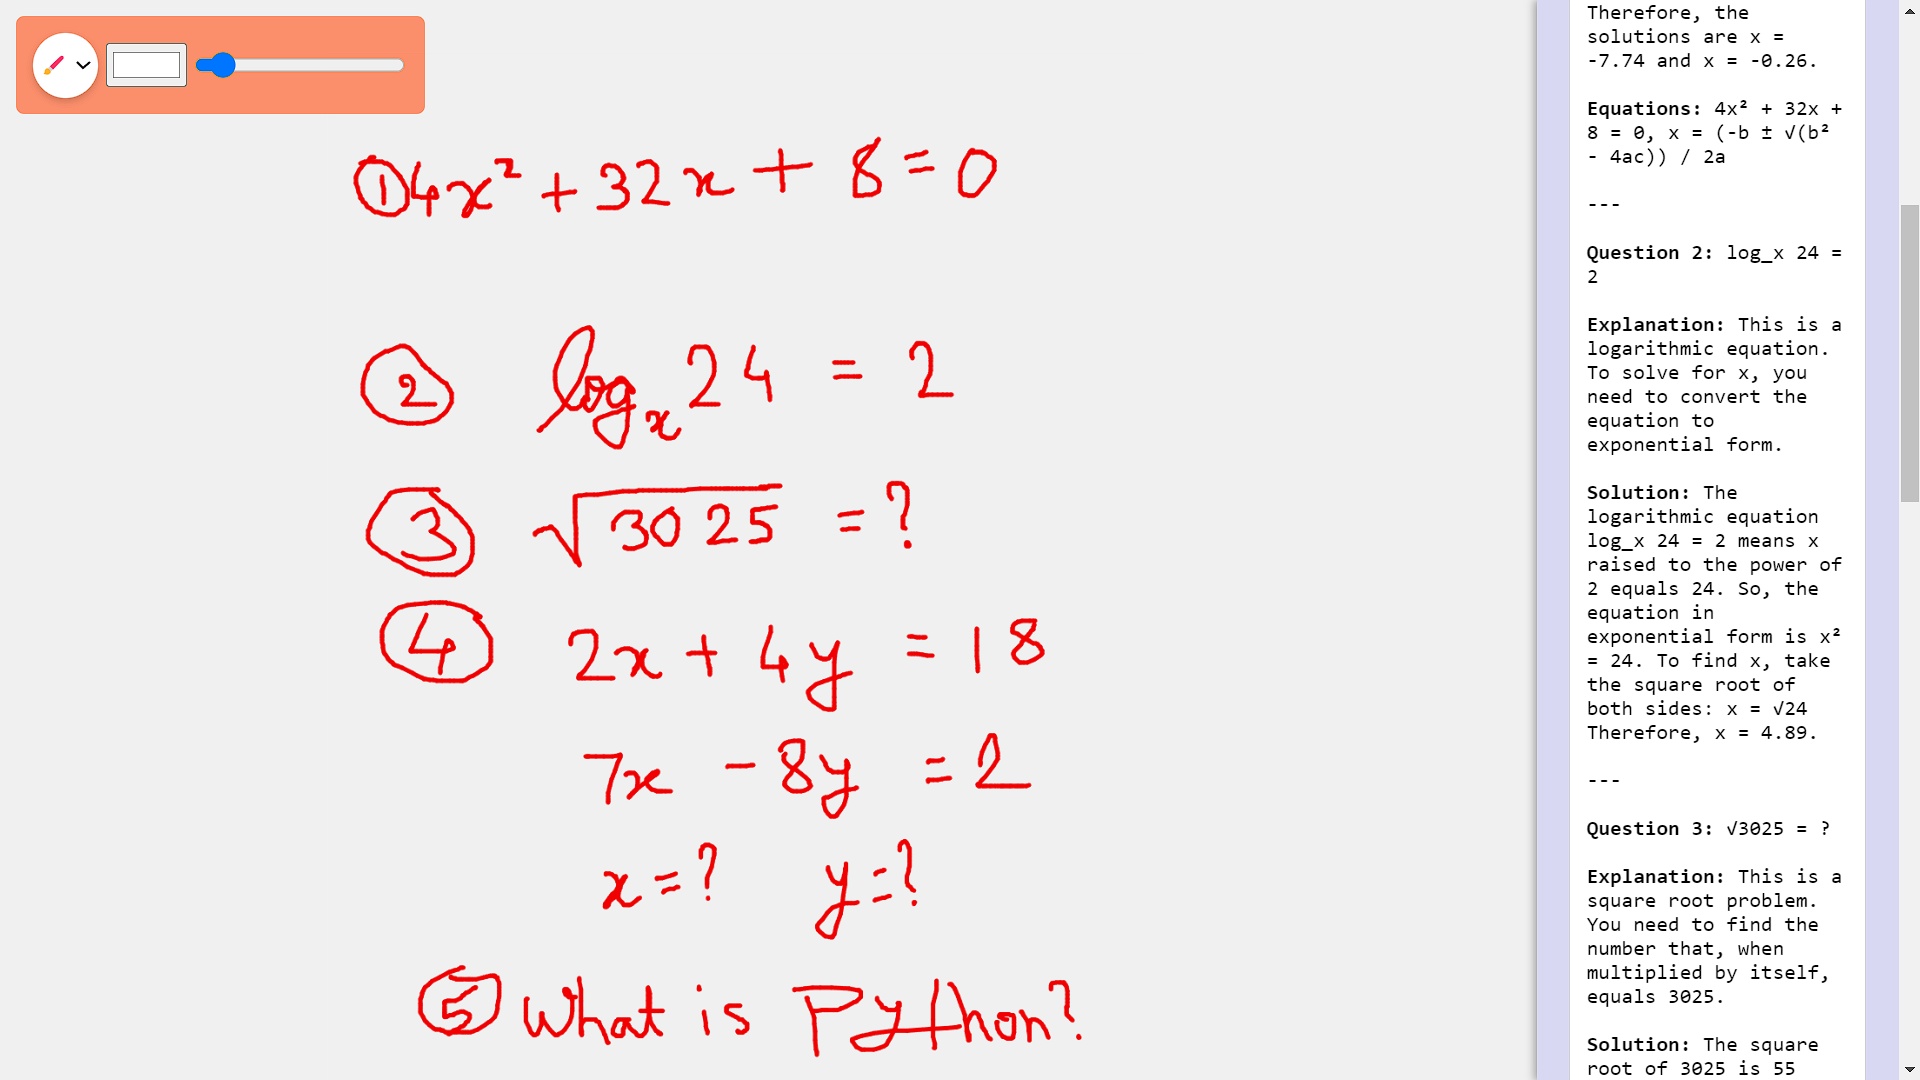
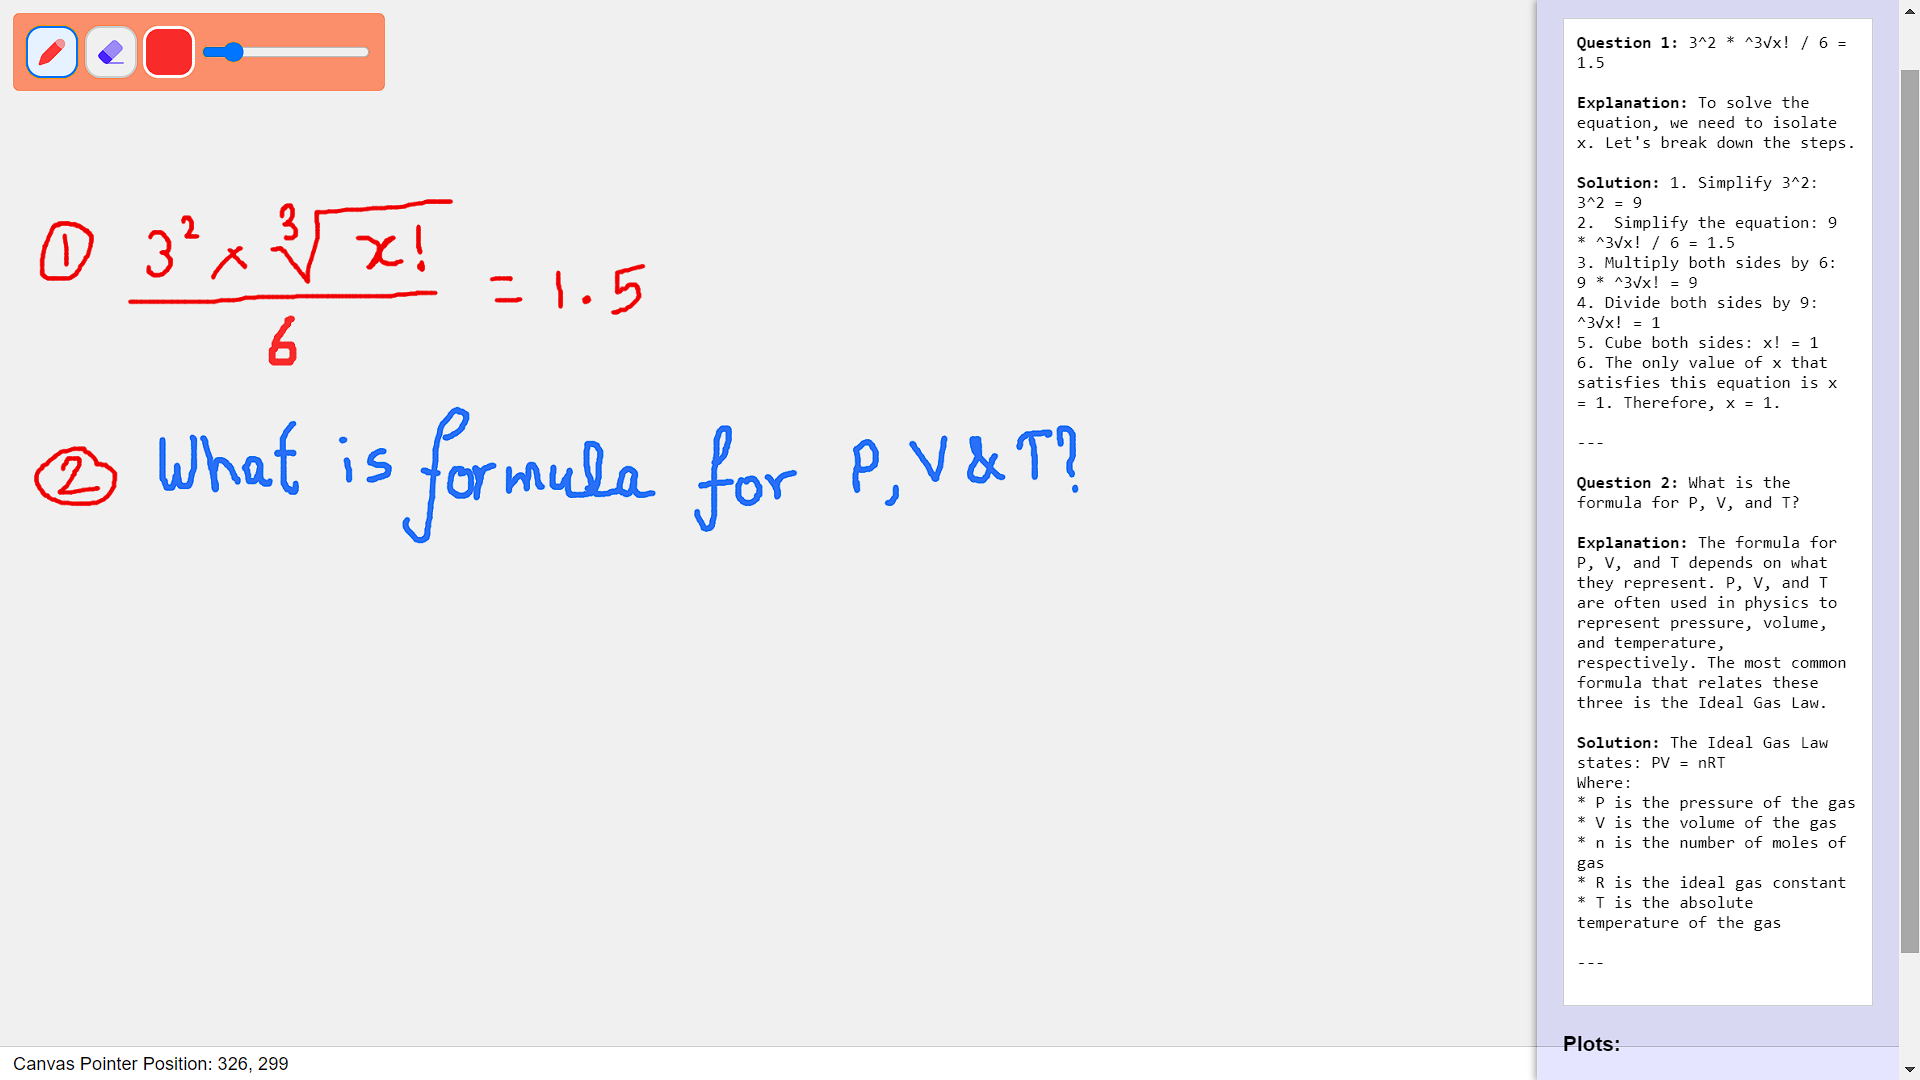
Changed UI

diff --git a/frontend/app.js b/frontend/app.js
@@ -1,4 +1,4 @@
-var width = window.innerWidth*0.8;
+var width = 1500;
 var height = 2000;
 
 var stage = new Konva.Stage({
@@ -18,6 +18,7 @@ var image = new Konva.Image({
     image: canvas,
     x: 0,
     y: 0,
+    shadowEnabled: 'true',
 });
 layer.add(image);
 
@@ -25,10 +26,6 @@ var context = canvas.getContext('2d');
 context.strokeStyle = '#f00000';  // Set default brush color
 context.lineJoin = 'round';
 context.lineWidth = 5;
-
-// Fill the canvas with the background color
-context.fillStyle = '#f0f0f0';
-context.fillRect(0, 0, canvas.width, canvas.height);
 
 var isPaint = false;
 var lastPointerPosition;
@@ -92,6 +89,9 @@ stage.on('mousedown touchstart', function (e) {
         var transform = stage.getAbsoluteTransform().copy();
         transform.invert();
         lastPointerPosition = transform.point(pos);
+
+        //=========== try Update the position display
+        updatePointerPosition(lastPointerPosition.x, lastPointerPosition.y);
     }
 });
 
@@ -99,6 +99,14 @@ stage.on('mouseup touchend', function () {
     isPaint = false;
     stage.draggable(false);  // Always disable dragging after mouse release
 });
+
+//=========== pointer position display
+// Add this function to update the position display
+function updatePointerPosition(x, y) {
+    var positionElement = document.getElementById('pointer-position');
+    positionElement.textContent = Math.round(x) + ', ' + Math.round(y);
+}
+//===========
 
 stage.on('mousemove touchmove', function (e) {
     if (!isPaint) {
@@ -129,26 +137,44 @@ stage.on('mousemove touchmove', function (e) {
     var localPos = transform.point(pos);
 
     context.beginPath();
-
     // Move to the last pointer position and draw a line to the current position
     context.moveTo(lastPointerPosition.x, lastPointerPosition.y);
     context.lineTo(localPos.x, localPos.y);
-
     context.closePath();
     context.stroke();
 
     // Update the last pointer position
     lastPointerPosition = localPos;
 
+    //=========== try Update the position display
+    updatePointerPosition(localPos.x, localPos.y);
+
     layer.batchDraw();
 });
 
+//=================== tools changed ================
+// Replace the toolSelect event listener with the following:
+var brushTool = document.getElementById('brush-tool');
+var eraserTool = document.getElementById('eraser-tool');
 
+function setActiveTool(activeTool) {
+    mode = activeTool;
+    brushTool.classList.toggle('active', activeTool === 'brush');
+    eraserTool.classList.toggle('active', activeTool === 'eraser');
+}
 
-var toolSelect = document.getElementById('tool');
-toolSelect.addEventListener('change', function () {
-    mode = toolSelect.value;
+brushTool.addEventListener('click', function() {
+    setActiveTool('brush');
 });
+
+eraserTool.addEventListener('click', function() {
+    setActiveTool('eraser');
+});
+
+// Initialize with brush as the active tool
+setActiveTool('brush');
+
+//====================================================
 
 var colorPicker = document.getElementById('color-picker');
 colorPicker.addEventListener('change', function () {
@@ -171,7 +197,18 @@ document.getElementById('generate-button').onclick = function() {
     plotOutputElement.innerHTML = '';
 
     // Get the canvas data as a base64-encoded string
-    var imageData = image.toDataURL('image/png');
+    var tempCanvas = document.createElement('canvas');
+    tempCanvas.width = stage.width();
+    tempCanvas.height = stage.height();
+    var tempContext = tempCanvas.getContext('2d');
+    // Fill the canvas with the background color
+    tempContext.fillStyle = '#f0f0f0';
+    tempContext.fillRect(0, 0, canvas.width, canvas.height);
+
+    // Draw the background
+    tempContext.drawImage(canvas, 0, 0);
+
+    var imageData = tempCanvas.toDataURL('image/png');
 
     // Send the image data to the backend
     fetch('http://localhost:5000/generate', {
@@ -221,6 +258,7 @@ document.getElementById('generate-button').onclick = function() {
         } else {
             plotOutputElement.innerHTML = 'No equations to plot.';
         }
+
     })
     .catch((error) => {
         console.error('Error:', error);

diff --git a/frontend/style.css b/frontend/style.css
@@ -4,7 +4,7 @@ body, html {
     height: 100%;
     font-family: Arial, sans-serif;
     overflow: hidden;
-    background-color: #18191b;
+    background-color: #f0f0f0;
 }
 .container {
     position: relative;
@@ -32,17 +32,64 @@ body, html {
     display: flex;
     align-items: center;
 }
+.tool-buttons {
+    display: flex;
+    flex-direction: row;
+}
+
 .tool-button {
     width: 40px;
     height: 40px;
-    border-radius: 50%;
-    border: none;
-    background-color: white;
-    box-shadow: 0 2px 5px rgba(0,0,0,0.2);
+    border: 2px solid #ccc;
+    border-radius: 30%;
+    cursor: pointer;
+    transition: all 0.3s ease;
+    display: flex;
+    justify-content: center;
+    align-items: center;
+    padding: 0;
+}
+
+.tool-button.active {
+    border-color: #007bff;
+    background-color: #e6f2ff;
+}
+
+.tool-button img {
+    width: 25px;
+    height: 25px;
+}
+
+#eraser-tool {
+    margin-left: 5px;
+}
+
+.size-slider {
+    margin-left: 5px;
     cursor: pointer;
 }
-.color-picker, .size-slider {
+.color-picker {
+    cursor: pointer;
     margin-left: 5px;
+    -webkit-appearance: none;
+    -moz-appearance: none;
+    appearance: none;
+    border-radius: 30%;
+    border: 3px solid #fff;
+    height: 40px;
+    width: 40px;
+    padding: 0px;
+}
+.color-picker::-webkit-color-swatch {
+    border: none;
+    padding: 0;
+}
+.color-picker::-webkit-color-swatch-wrapper {
+    padding: 0;
+}
+.color-picker::-moz-color-swatch {
+    border: none;
+    padding: 0;
 }
 .output-section {
     margin: 20px;
@@ -59,11 +106,25 @@ body, html {
     padding: 10px;
     overflow-y: auto;
     background-color: white;
-    white-space: pre-wrap;
+    white-space: break-spaces;
     font-family: monospace;
 }
 #generate-button {
     margin-left: 20px;
+    width: 40px;
+    height: 40px;
+    border-radius: 30%;
+    border: none;
+    background-color: #e3ff2c;
+    display: flex;
+    justify-content: center;
+    align-items: center;
+    padding: 0;
+    cursor: pointer;
+}
+#generate-button img {
+    width: 25px;
+    height: 25px;
 }
 #canvas-container {
     position: relative;
@@ -75,4 +136,19 @@ body, html {
     display: none;
     text-align: center;
     padding: 10px;
+}
+.konvajs-content {
+    cursor: crosshair;
+}
+/*Pointer position display bar*/
+.position-bar {
+    position: fixed;
+    bottom: 0;
+    left: 0;
+    width: 100%;
+    background-color: #ffffff;
+    padding: 5px 10px;
+    font-size: 14px;
+    border-top: 1px solid #ccc;
+    text-align: left;
 }

diff --git a/frontend/index.html b/frontend/index.html
@@ -12,11 +12,19 @@
         <div class="canvas-area">
             <div id="canvas-container"></div>
             <div class="tools">
-                <select id="tool" class="tool-button">
-                    <option value="brush">🖌</option>
-                    <option value="eraser">🧽</option>
-                </select>
-                <input type="color" id="color-picker" class="color-picker" value="#ffffff">
+                <!--changed icons to svg-->
+                <div class="tool-buttons">
+                    <!-- Brush tool button with external SVG -->
+                    <button id="brush-tool" class="tool-button active">
+                        <img src="pen.svg" alt="Brush Tool">
+                    </button>
+
+                    <!-- Eraser tool button with external SVG -->
+                    <button id="eraser-tool" class="tool-button">
+                        <img src="eraser.svg" alt="Eraser Tool">
+                    </button>
+                </div>
+                <input type="color" id="color-picker" class="color-picker" value="#f00000">
                 <input type="range" id="size-slider" class="size-slider" min="1" max="50" value="5">
             </div>
         </div>
@@ -30,8 +38,14 @@
                 <h4>Plots:</h4>
                 <div id="plot-output" class="output-content"></div>
             </div>
-            <button id="generate-button" style="width: 40px; height: 40px; border-radius: 50%; border: none; background-color: #007bff; color: white; font-size: 20px;">💎</button>
+            <button id="generate-button">
+                <img src="ai.svg" alt="Generate button">
+            </button>
         </div>
+    </div>
+<!--Adding Pointer position display bar-->
+    <div id="position-bar" class="position-bar">
+        Canvas Pointer Position: <span id="pointer-position">0, 0</span>
     </div>
     <script src="app.js"></script>
 </body>

diff --git a/backend/app.py b/backend/app.py
@@ -1,4 +1,4 @@
-from flask import Flask, request, jsonify
+from flask import Flask, request, jsonify, send_file
 from flask_cors import CORS
 from io import BytesIO
 from PIL import Image
